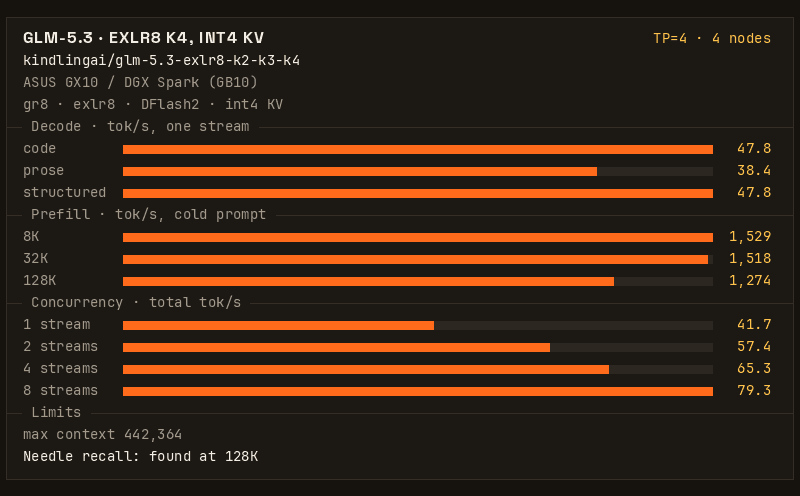
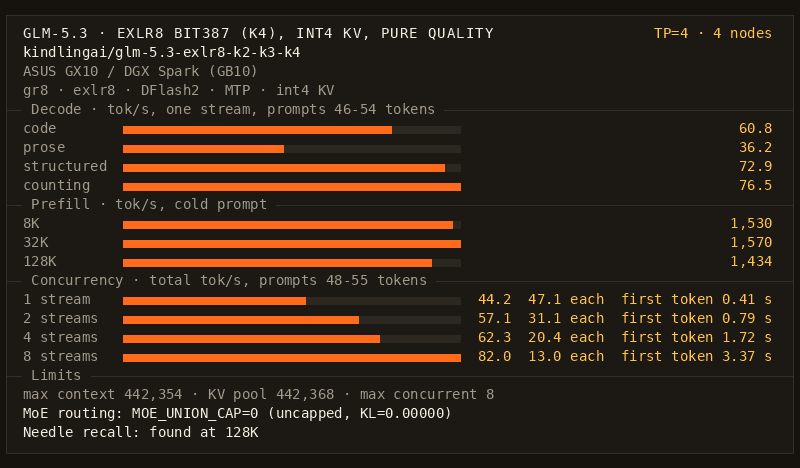
Pin gr8 v1.1.0 (8 exact kernels, MOE_UNION_CAP=0 pure quality) and updated model card (#3)

Changed region(s): [[0.0312, 0.0598, 0.9688, 0.9573], [0.375, 0.0598, 0.625, 0.0897], [0.8125, 0.0598, 0.9688, 0.0897]]

diff --git a/check.py b/check.py
@@ -1,0 +1,55 @@
+#!/usr/bin/env python3
+"""Check this recipe's pins: kindling.json's engine field names the gr8 commit the gr8/ submodule is at, and its
+weights_commit is the Hugging Face commit the Dockerfile's MODEL line boots.
+
+  python3 check.py        exit 0 when they agree, 1 with the reason when not
+"""
+import json
+import re
+import subprocess
+import sys
+
+k = json.load(open('kindling.json'))
+e = k.get('engine') or {}
+bad = []
+for f in ('repo', 'ref', 'commit', 'pin', 'image', 'image_digest'):
+    if not e.get(f):
+        bad.append(f'kindling.json engine.{f} is missing')
+if e.get('commit') and not re.fullmatch(r'[0-9a-f]{40}', e['commit']):
+    bad.append('engine.commit is not a full commit hash')
+if e.get('image_digest') and not re.fullmatch(r'sha256:[0-9a-f]{64}', e['image_digest']):
+    bad.append('engine.image_digest is not a sha256 digest')
+if e.get('image') and e.get('commit'):
+    ok_img = (
+        e['image'].endswith(':sha-' + e['commit'][:7])
+        or (e.get('ref') and e['image'].endswith(':' + e['ref']))
+    )
+    if not ok_img:
+        bad.append(f"engine.image {e['image']} does not match ref {e.get('ref')} or commit {e['commit'][:7]}")
+try:
+    sub = subprocess.run(['git', 'ls-tree', 'HEAD', 'gr8'], capture_output=True, text=True, check=True).stdout.split()
+    if len(sub) < 3 or sub[1] != 'commit':
+        bad.append('the gr8/ submodule is not in HEAD')
+    elif sub[2] != e.get('commit'):
+        bad.append(f'the gr8/ submodule is at {sub[2]}, kindling.json says {e.get("commit")}')
+except (OSError, subprocess.CalledProcessError) as x:
+    bad.append(f'git ls-tree HEAD gr8: {x}')
+df = open('Dockerfile').read()
+m = re.search(r'MODEL=https://huggingface\.co/([^@\s]+)@([0-9a-f]{40})', df)
+if not m:
+    bad.append('the Dockerfile has no pinned MODEL')
+else:
+    if m.group(1) != k.get('model'):
+        bad.append(f'the Dockerfile boots {m.group(1)}, kindling.json says {k.get("model")}')
+    if m.group(2) != k.get('weights_commit'):
+        bad.append(f'the Dockerfile pins {m.group(2)}, kindling.json weights_commit says {k.get("weights_commit")}')
+if 'MOE_UNION_CAP=0' not in df:
+    bad.append('Dockerfile must explicitly set MOE_UNION_CAP=0 to keep K4 uncapped')
+ids = [c['id'] for c in k['configs']]
+if k.get('default_config') not in ids:
+    bad.append('default_config names no config')
+for b in bad:
+    print('check: ' + b, file=sys.stderr)
+print(f"check: {'FAIL' if bad else 'ok'}: engine {e.get('ref')} {str(e.get('commit'))[:7]}, weights {str(k.get('weights_commit'))[:8]}, "
+      f"{len(ids)} config(s)")
+sys.exit(1 if bad else 0)

diff --git a/README.md b/README.md
@@ -4,15 +4,58 @@ If you are an agent booting this for someone, read [AGENTS.md](AGENTS.md) first,
 
 _**Join our discord to learn more about KindlingAI and `gr8`: https://discord.gg/8EAvYPV2rE**_
 
-GLM-5.3 on four DGX Sparks (GB10, 128 GB each), served by [gr8](https://github.com/kindlingai/gr8) from the `bit387`
-profile of [kindlingai/glm-5.3-exlr8-k2-k3-k4](https://huggingface.co/kindlingai/glm-5.3-exlr8-k2-k3-k4) (0.7): every
+Quality-first GLM-5.3 on four DGX Sparks (GB10, 128 GB each), served by [gr8](https://github.com/kindlingai/gr8) `v1.1.0` from the `bit387`
+profile of [kindlingai/glm-5.3-exlr8-k2-k3-k4](https://huggingface.co/kindlingai/glm-5.3-exlr8-k2-k3-k4/tree/9e25c28a2e8808d8b2599d780521fd6af24e7558) (0.7): every
 routed expert at 4 bits a weight except the first ten MoE layers (3-12) at 3, and the MTP layer at 3, the only width
 the release stores for it. `bit387` is statistically identical to the all-K4 `bit400`: full-vocabulary KL against
 BF16 of 0.0385 against 0.0381 on model-written text (1.5 standard errors apart), in 12 GB less (89 against 92 GB of
-experts per box). The recipe carries a copy of the release's manifest (`manifests/exlr8-manifest-bit387.json`). The
-KV cache is int4, on the four boxes.
+experts per box). The recipe carries a copy of the release's manifest (`manifests/exlr8-manifest-bit387.json`), runs int4 KV, enables all eight bit-exact `gr8 v1.1.0` kernels (`KL = 0.00000`), and explicitly sets **`MOE_UNION_CAP=0`** so routed experts stay 100% uncapped.
 
 ![GLM-5.3 K4 on four GB10 boxes: decode, prefill and concurrency](docs/card.png)
+
+60.8 tok/s for one request writing code · 1,570 tok/s prefill on a 32K prompt (1,434 tok/s at 128K) · 8 requests at once, 82.0 tok/s in total · 100% uncapped pure-quality routing (`MOE_UNION_CAP=0`, `KL=0.00000`) · a 442,368-token KV pool · a fact hidden in a 128K prompt found
+
+## Results
+
+Four DGX Sparks on a 200G switch, TP=4, `gr8 v1.1.0` (`cdd1e09`), `bit387` v0.7 experts (`9e25c28a`), int4 KV, DFlash2 + MTP drafter, `MOE_UNION_CAP=0` (uncapped), `DEC_BK=2048 DEC_BK_MAX=2048` (`.env.example`), measured 2026-11-20 with gr8's benchmark (`bench/bench.py`, default level), one fresh boot, GPU clocks uncapped in timed stages. Every speed is in tokens per second (tok/s).
+
+One request, short prompts (46-54 tokens, up to 512 tokens out, 6 runs each):
+
+| work | code | prose | structured | counting |
+|---|---|---|---|---|
+| tok/s, mean | 60.8 | 36.2 | 72.9 | 76.5 |
+| lowest - highest run | 54.5 - 66.2 | 33.5 - 37.7 | 67.3 - 78.7 | 75.5 - 77.0 |
+
+Prefill, cold prompt (one run each):
+
+| prompt | first token | prefill tok/s | decode after it | first token, same prompt again (cached) |
+|---|---|---|---|---|
+| 8K tokens | 5.34 s | 1,530 | 34.6 tok/s | 0.17 s |
+| 32K tokens | 20.90 s | 1,570 | 31.0 tok/s | 0.47 s |
+| 128K tokens | 91.44 s | 1,434 | 29.6 tok/s | 0.29 s |
+
+Requests at once (short mixed prompts, 48-55 tokens, up to 512 tokens out each):
+
+| requests at once | 1 | 2 | 4 | 8 |
+|---|---|---|---|---|
+| total tok/s | 44.2 | 57.1 | 62.3 | 82.0 |
+| tok/s per request | 47.1 | 31.1 | 20.4 | 13.0 |
+| first token, median | 0.41 s | 0.79 s | 1.72 s | 3.37 s |
+
+Checks on the same boot:
+
+| check | result |
+|---|---|
+| smoke test | 14 of 14 |
+| fact hidden in a 131,475-token prompt | found |
+| count to 200, three times | 3 of 3 clean |
+| prompt cache | 437 of 438 cached |
+| suspect characters | 0 replies |
+| quality / routing | `MOE_UNION_CAP=0` (uncapped), 8 bit-exact `v1.1.0` kernels (`KL = 0.00000`) |
+| longest context (`max_model_len`) | 442,354 tokens |
+| lowest `MemAvailable` recorded on any box | 3.78 GiB (4.32 - 4.72 GiB after boot) |
+
+[kindling.json](kindling.json) has these numbers in a form a program can read. The card above is drawn from it.
 
 ## What you need
 
@@ -34,7 +77,7 @@ On each of the four boxes:
 ```bash
 git clone https://github.com/kindlingai/glm-5.3-exlr8-k4-4x-spark
 cd glm-5.3-exlr8-k4-4x-spark
-cp .env.example .env        # fill in PEERS (and IPS, IPS2) unless the boxes run mentat; the same file on every box
+cp .env.example .env        # fill in PEERS (and IPS, IPS2) unless the boxes run mentat; keep DRAFTER + DEC_BK=2048
 docker compose up -d
 ```
 
@@ -56,17 +99,24 @@ git pull && docker compose pull && docker compose up -d # on every box
 
 ## Knobs
 
-The recipe sets the model, the `bit387` manifest and four boxes, and trades some decode speed for memory: decode graphs
-for three context sizes (`DEC_BK=16384`, `DEC_BK_MAX=32768`) and a fixed MTP draft count (`S2_ADAPT=0`). The K4
-experts leave no room for gr8's defaults and a KV pool (`Dockerfile`). One session can be 432K tokens long
-(`CAP=442368`), and `SHARE_LIMIT=16384` lets four sessions of about 74K tokens share the pool. Every other option is
-gr8's launcher default, listed in
-[gr8/KNOBS.md](https://github.com/kindlingai/gr8/blob/4964aab7d3ff5fc2718e3ffef957578bad3fc22f/KNOBS.md).
-Set any of them in `.env`, the same line on every box.
+- **`MOE_UNION_CAP=0` (set in `Dockerfile` and `.env.example`):** `gr8 v1.1.0` enables eight bit-exact decode, prefill, and DFlash2 kernels at TP=4 (`KL = 0.00000`) and defaults `MOE_UNION_CAP=48` for the standard 3.25-bpw recipe. This K4 recipe explicitly pins `MOE_UNION_CAP=0` so routed experts stay 100% uncapped and exact.
+- **`DEC_BK=2048` and `DEC_BK_MAX=2048` (set in `.env.example`):** Captures three decode graph buckets (2K, 16K, cap) instead of 16K/32K/cap — bit-exact, leaving 4.3+ GiB `MemAvailable` per box after boot (`3.78 GiB` minimum during full benchmark).
+- **`CAP=442368`, `SHARE_LIMIT=16384`, `S2_ADAPT=0` (`Dockerfile`):** One session up to 432K tokens (`442,354` `max_model_len`), or four sessions of ~74K tokens sharing the pool.
+- **`PEERS`, `IPS`, `IPS2`:** The boxes' addresses (`.env.example`). Unset, the boxes find each other through mentat.
+- **`DISPRAM=1`:** Lends each box's 2 GiB display carveout to the KV cache when Kindling OS runs `dispramd` (0 turns it off).
 
-- `PEERS`, `IPS`, `IPS2`: the boxes' addresses (`.env.example`). Unset, the boxes find each other through mentat.
-- `DISPRAM`: 1 (the recipe's setting) lends each box's 2 GiB display memory to the KV cache when Kindling OS runs
-  `dispramd`. 0 turns it off.
+Every other option is gr8's launcher default, listed in
+[gr8/KNOBS.md](https://github.com/kindlingai/gr8/blob/cdd1e0931047f55bba8f682a0ae79c4198668ca3/KNOBS.md).
+
+## Engine pin
+
+| | |
+|---|---|
+| engine | [kindlingai/gr8](https://github.com/kindlingai/gr8) [`v1.1.0`](https://github.com/kindlingai/gr8/releases/tag/v1.1.0) at [`cdd1e09`](https://github.com/kindlingai/gr8/commit/cdd1e0931047f55bba8f682a0ae79c4198668ca3) (`gr8/` submodule) |
+| prebuilt engine image | `ghcr.io/kindlingai/gr8:v1.1.0@sha256:b22eedbd7902f65dbf2090897d75f5d92276cbf78a16bcde1f958aa56a306cf7` |
+| weights | [kindlingai/glm-5.3-exlr8-k2-k3-k4](https://huggingface.co/kindlingai/glm-5.3-exlr8-k2-k3-k4/tree/9e25c28a2e8808d8b2599d780521fd6af24e7558) (`9e25c28a`, `bit387`) |
+
+Run `python3 check.py` to verify that `kindling.json`, `gr8/` submodule, and `Dockerfile` agree.
 
 ## Help
 

diff --git a/AGENTS.md b/AGENTS.md
@@ -19,17 +19,24 @@ On all four boxes:
 
 ## 2. Configure
 
-Copy `.env.example` to `.env` on every box. If the boxes run mentat (`docker ps` shows a `mentat` container), leave it
-as it is. Otherwise fill in `PEERS` (the four LAN addresses, head first) and, if the boxes have more than one ConnectX
-address each, `IPS` and `IPS2`. Use the same `.env` on every box.
+Copy `.env.example` to `.env` on every box. Keep its `DRAFTER`, `DEC_BK=2048`, `DEC_BK_MAX=2048`, and `MOE_UNION_CAP=0` lines: the README's numbers were measured with them (pure quality, uncapped routing, 4.3+ GiB free per box). If the boxes run mentat (`docker ps` shows a `mentat` container), leave `PEERS` commented out. Otherwise fill in `PEERS` (the four LAN addresses, head first) and, if the boxes have more than one ConnectX address each, `IPS` and `IPS2`. Use the same `.env` on every box.
 
 ## 3. Start and check
 
 1. `docker compose up -d` on all four boxes.
 2. `docker compose logs -f` on the head. The first boot fetches the model (about 100 GB a box), then the boxes
    handshake and load. It is ready when the log says the cluster serves.
-3. On the head: `docker compose exec gr8 /opt/gr8/gr8 glm53 smoke`. Every check must pass.
-4. On the head: `curl http://localhost:8100/v1/models` lists the model.
+3. On the head: `docker compose exec gr8 /opt/gr8/gr8 glm53 smoke`. Every check must pass (14 of 14).
+4. On the head: `curl http://localhost:8100/v1/models` lists the model with `max_model_len` 442354.
 
 If a box's log says another engine is running, run `docker compose exec gr8 /opt/gr8/gr8 glm53 down` on the head,
 wait until `pgrep -f 'bin/g6m4'` finds nothing on every box, and start again.
+
+## Rules for changes to this repo
+
+- Every number in `README.md` and `kindling.json` comes from a measured run. Say the date, the box count and the
+  engine build. Do not copy a number from another build without its date.
+- `README.md`'s results and `kindling.json` say the same thing. A change to one changes the other, and
+  `docs/card.png` is drawn again: `python3 bench/gif.py card kindling.json --out docs/card.png` from a gr8 checkout.
+- This K4 recipe is quality-first: keep `MOE_UNION_CAP=0` (uncapped) in `Dockerfile` and `.env.example`.
+- Run `python3 check.py` before you commit.
